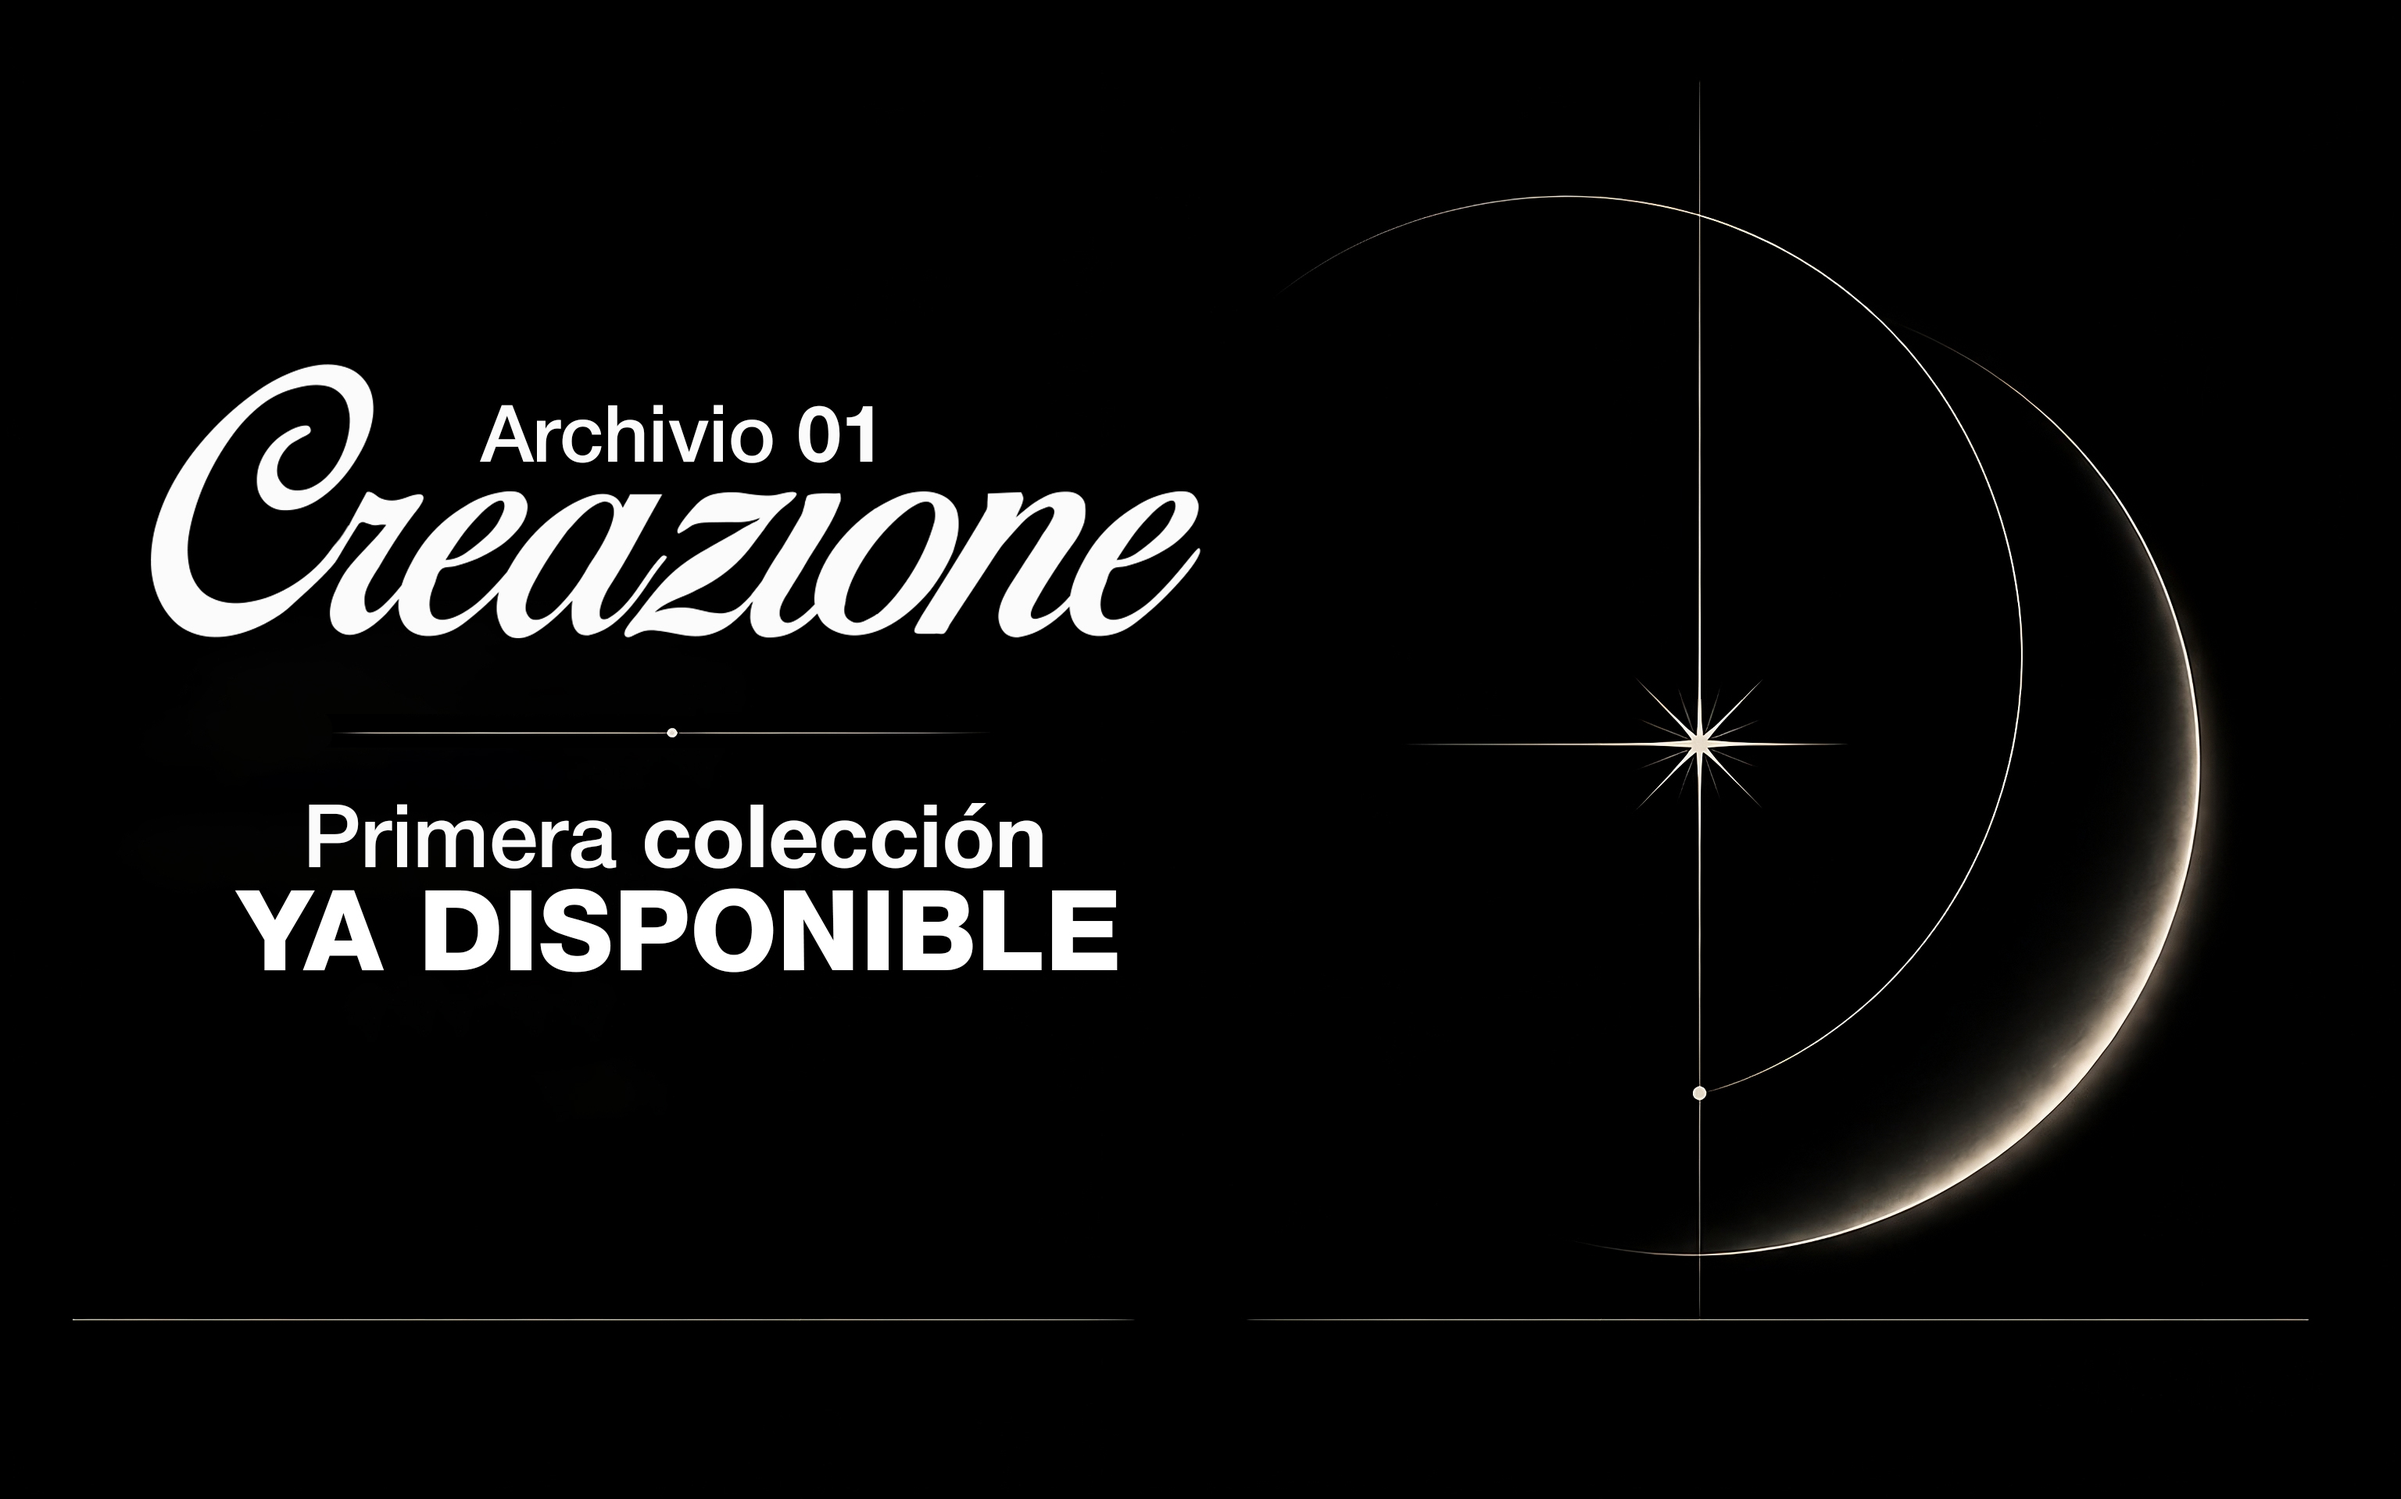
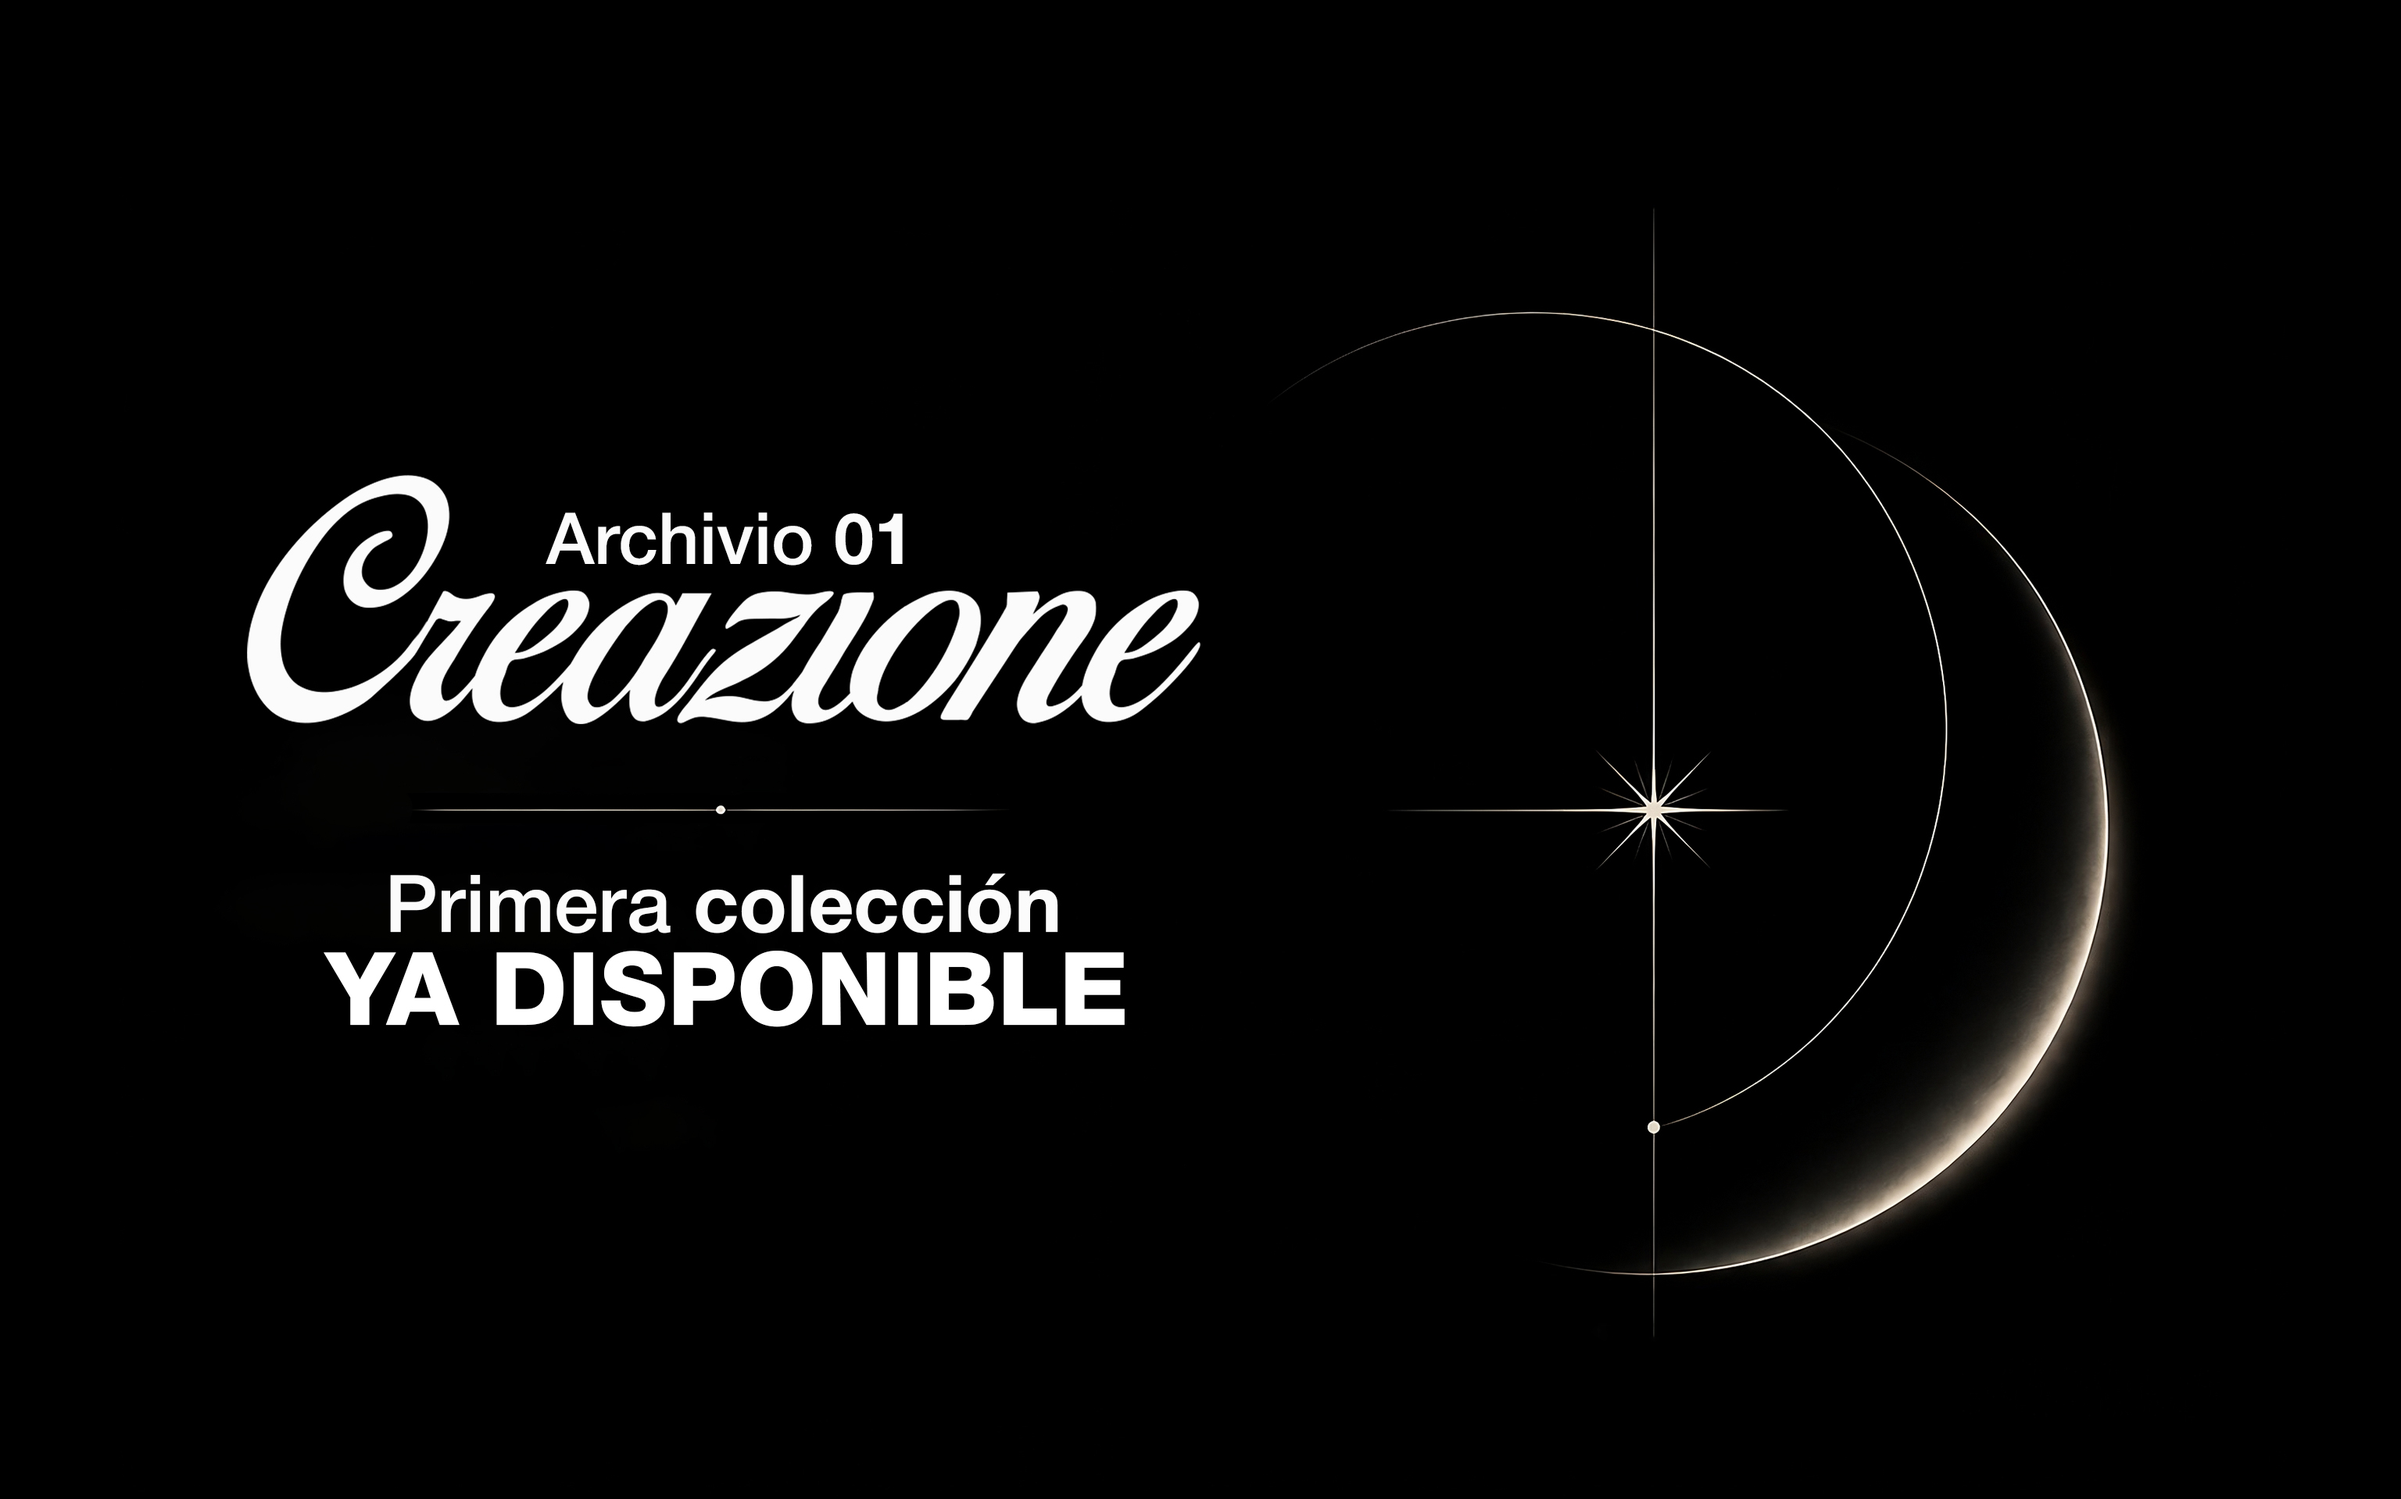
hero cambio

diff --git a/styles.css b/styles.css
@@ -250,10 +250,10 @@ body.theme-dark .moon-icon {
 
 .hero-image,
 .hero-shade {
-  position: absolute;
-  inset: 0;
-  width: 100%;
-  height: 100%;
+    position: absolute;
+    inset: 0;
+    width: 100%;
+    height: 100%;
 }
 
 .hero-image {
@@ -262,14 +262,12 @@ body.theme-dark .moon-icon {
 }
 
 .hero-shade {
-  background:
-    linear-gradient(90deg, rgba(13, 12, 11, 0.76), rgba(13, 12, 11, 0.34) 50%, rgba(13, 12, 11, 0.05)),
-    linear-gradient(0deg, rgba(13, 12, 11, 0.62), rgba(13, 12, 11, 0.1) 58%);
+    display: none;
 }
 
 .hero-content {
-  position: relative;
-  width: min(620px, 100%);
+    position: relative;
+    width: min(900px, 100%);
 }
 
 .eyebrow {
@@ -342,8 +340,15 @@ body.theme-dark .hero-availability {
 
 .hero-actions,
 .toolbar {
-  flex-wrap: wrap;
-  gap: 12px;
+    display: flex;
+    flex-wrap: wrap;
+    gap: 12px;
+}
+
+.hero-actions{
+    display: flex;
+    justify-content: center;
+    margin-left: 100px;
 }
 
 .button,
@@ -1393,4 +1398,33 @@ cursor: grab;
 
     }
 
+}
+
+/* Ocultar contenido del hero, mantener botones */
+
+.hero-logo,
+.hero-kicker,
+.hero-copy,
+.hero-availability {
+    display: none;
+}
+
+@media (max-width: 768px) {
+
+  .hero-actions{
+    display: flex;
+    justify-content: center;
+    align-items: center;
+    width: 100%;
+    margin-top: 24px;
+    gap: 14px;
+  }
+.hero-content{
+    width: 100%;
+    text-align: center;
+}
+.hero-actions{
+    margin-left: auto;
+    margin-right: auto;
+}
 }

diff --git a/index.html b/index.html
@@ -50,11 +50,19 @@
 
     <main>
       <section class="hero" id="inicio">
-        <img
-          class="hero-image"
-          src="assets/spadaro-archivio-01-hero.png"
-          alt="Collage artístico de arte, arquitectura y simbolismo para ARCHIVIO 01 de SPADARO"
-        />
+        <picture class="hero-picture">
+
+    <source
+        media="(max-width: 768px)"
+        srcset="assets/portada-mobile.jpg">
+
+    <img
+        class="hero-image"
+        src="assets/portada.jpg"
+        alt="Portada SPADARO">
+
+</picture>
+        
         <div class="hero-shade" aria-hidden="true"></div>
         <div class="hero-content">
           <img
